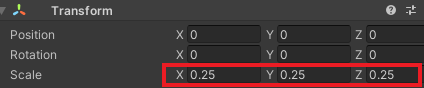
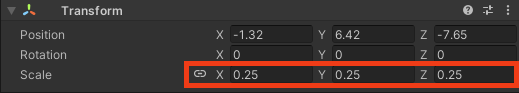
Updates following review

diff --git a/en/step_2.md b/en/step_2.md
@@ -65,6 +65,8 @@ A new file will appear in the Assets folder in the Project window:
 
 ![Project window with Rainbow run scene in the Assets folder.](images/rainbow-run-scene.png)
 
+Drag the new `Rainbow run` Scene into the 'Scenes' folder to organise your files.
+
 --- /task ---
 
 ### Add a floor
@@ -103,7 +105,7 @@ Your scene should look like this:
 
 Right-click on **Persp** in the Scene gizmo and choose 'Top' to switch to top-down view:
 
-![Then Persp menu is selected with the 'Top' option highlighted.](images/persp-top.png)
+![The Persp menu is selected with the 'Top' option highlighted.](images/persp-top.png)
 
 You should now see your project from the top view. 
 
@@ -127,7 +129,7 @@ Your goal should now look like this:
 
 --- task ---
 
-From the **Parts** folder, drag a 'Ramp_StraightDown' into the Scene view. Position the ramp in front of the goal. 
+From the **Parts** folder, drag a 'StraightDown' into the Scene view. Position the ramp in front of the goal. 
 
 **Tip:** You can either use the 'Move' tool to position the ramp or enter the transform position numbers X=`3`, Y=`1.5`, Z=`-3.3`:
 
@@ -151,15 +153,15 @@ You can move your view of the scene to see it from different angles. The best an
 
 --- task ---
 
-From the **Parts** folder, drag a 'Ramp_Spiral' into the Scene view. Position the spiral so it connects closely with the Ramp_StraightDown part. 
+From the **Parts** folder, drag a 'Spiral' into the Scene view. Position the spiral so it connects closely with the 'StraightDown' part. 
 
 You can connect vertices (points) of two different objects in Unity by holding down the **V** key, hovering close to a vertex, and then dragging it towards the object you want to align with.
 
-![An animated image shown the top corner of the Ramp_Spiral lower edge being selected and dragged to the top corner of the Ramp_StraightDown upper edge.](images/vertex-snapping.gif)
+![An animated image shown the top corner of the Spiral lower edge being selected and dragged to the top corner of the StraightDown upper edge.](images/vertex-snapping.gif)
 
 [[[unity-vertex-snapping]]]
 
-An alternative way to position these two pieces together is to set the transform position of the Ramp_Spiral to X=`3`, Y=`1.5`, Z=`-3.3`. 
+An alternative way to position these two pieces together is to set the transform position of the Spiral to X=`3`, Y=`1.5`, Z=`-3.3`. 
 
 --- collapse ---
 ---
@@ -170,9 +172,9 @@ Objects in Unity have a **Pivot point** used for the Transform position coordina
 
 **Tip:** Click on an object in Scene view to see the Transform gizmo position. 
 
-In this case the Pivot point for 'Ramp_StraightDown' is at the top edge and the Pivot point for 'Ramp_Spiral' is at the bottom edge. This means the coordinates are the same for both pieces. 
+In this case the Pivot point for 'StraightDown' is at the top edge and the Pivot point for 'Spiral' is at the bottom edge. This means the coordinates are the same for both pieces. 
 
-![Two images side by side showing the joining area of both objects. The first with the transform gizmo on the 'Ramp_StraightDown' , the second with the transform gizmo of the 'Ramp_Spiral'.](images/pivot-point.png)
+![Two images side by side showing the joining area of both objects. The first with the transform gizmo on the 'StraightDown' , the second with the transform gizmo of the 'Spiral'.](images/pivot-point.png)
 
 --- /collapse ---
 
@@ -180,7 +182,7 @@ In this case the Pivot point for 'Ramp_StraightDown' is at the top edge and the 
 
 --- task ---
 
-From the **Parts** folder, drag a 'Ramp_CurveDown' into the Scene view. Position the curved ramp so it connects closely with the Ramp_Spiral part. 
+From the **Parts** folder, drag a 'CurveDown' into the Scene view. Position the curved ramp so it connects closely with the 'Spiral' part. 
 
 Use **Vertex snapping** to position your part.
 
@@ -202,7 +204,7 @@ Your course should look like the image below. This screenshot was taken from the
 
 **Choose:** a material for each piece in your track. 
 
-In the Project window, go to **Materials > ObstacleMaterials**. Drag a coloured material onto each piece in the Scene view.   
+In the Project window, go to **Materials**. Drag a coloured material onto each piece in the Scene view.   
 
 We added rainbow colours. What will you choose? 
 

diff --git a/en/step_1.md b/en/step_1.md
@@ -27,10 +27,10 @@ This project requires the Unity Editor, which can be installed from the Unity Hu
 
 You can follow our [Unity guide](https://projects.raspberrypi.org/en/projects/unity-guide){:target="_blank"} to install Unity Hub and the Unity Editor for your operating system.
 
-You will also need to download the [Unity starter package](https://rpf.io/p/en/rainbow-run-go){:target="_blank"} of assets before starting.
+You will also need to download the [More Unity starter package](https://rpf.io/p/en/rainbow-run-go){:target="_blank"} of assets before starting.
 
 
 ### Recommended previous experience
 
-The projects in this More Unity path are suitable for creators with some experience of Unity. If you are new to Unity our [Introduction to Unity: 3D Objects, Character Controllers, Colliders, Text and Buttons](https://projects.raspberrypi.org/en/raspberrypi/unity-intro) path is a great place to start.
+The projects in this More Unity path are suitable for creators with some experience of Unity. If you are new to Unity our [Introduction to Unity path](https://projects.raspberrypi.org/en/raspberrypi/unity-intro) is a great place to start and learn all about; 3D Objects, Character Controllers, Colliders, Text and Buttons.
 

diff --git a/en/step_3.md b/en/step_3.md
@@ -23,7 +23,9 @@ In this step, you will create a ball using a **UV sphere** object. Then style th
 
 Set the scale of the 'Ball' to X=`0.25`, Y=`0.25`, Z=`0.25`.
 
-![A screenshot highlighting the stated scale values for the 'Ball' GameObject.](images/ball-scale.png)
+**Tip:** You can use the 'link' button next to the scale property to change all the values at once. Just make sure to unlink them afterwards.
+
+![A screenshot highlighting the 'link' icon and the stated scale values for the 'Ball' GameObject.](images/ball-scale.png)
 
 --- /task ---
 
